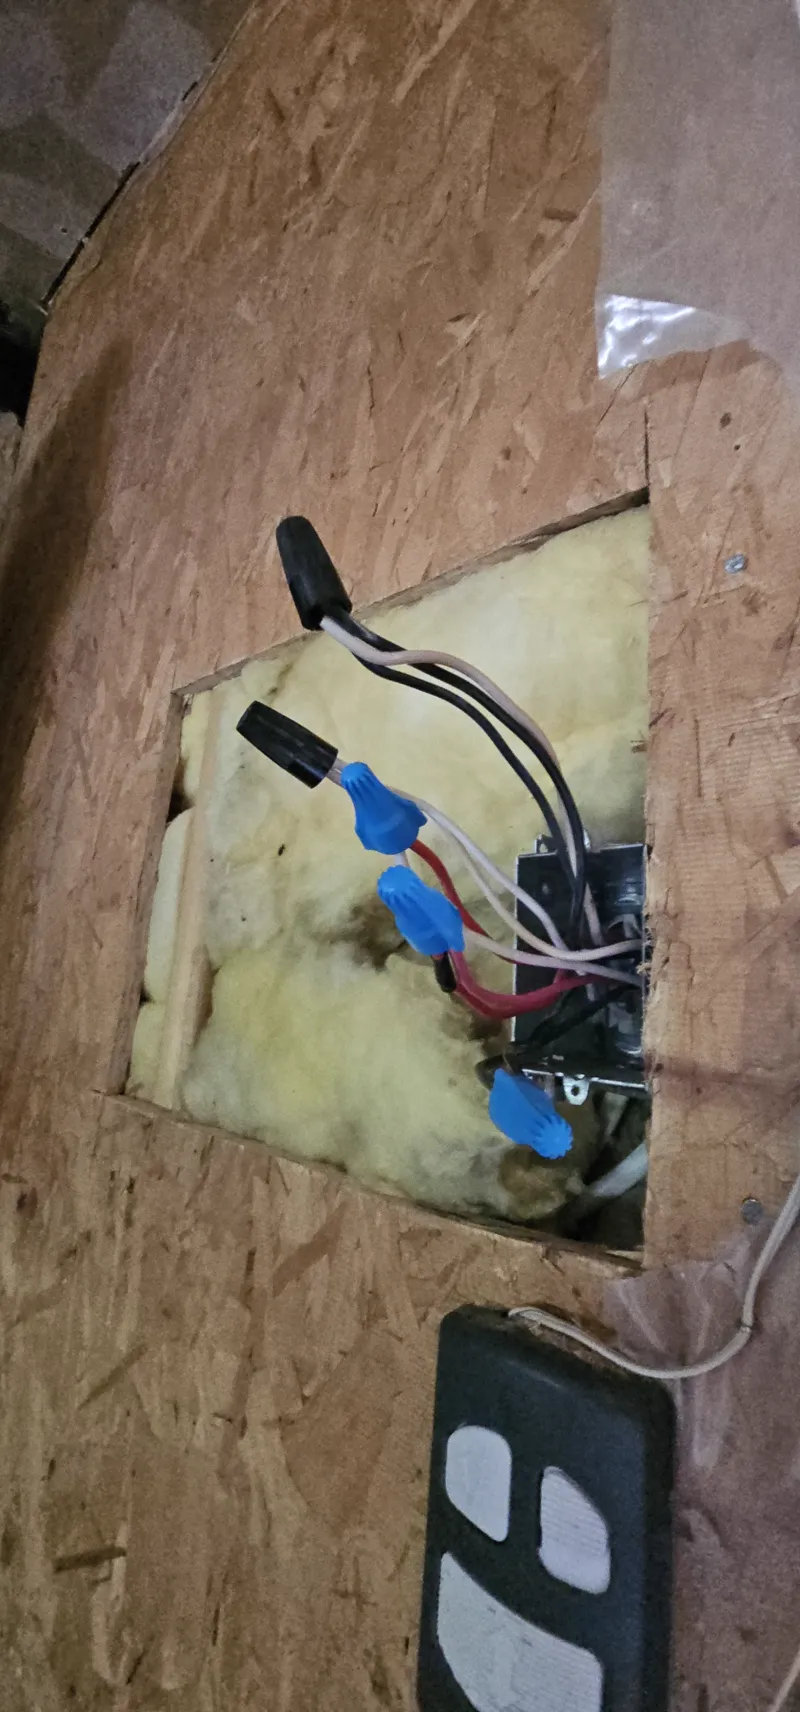
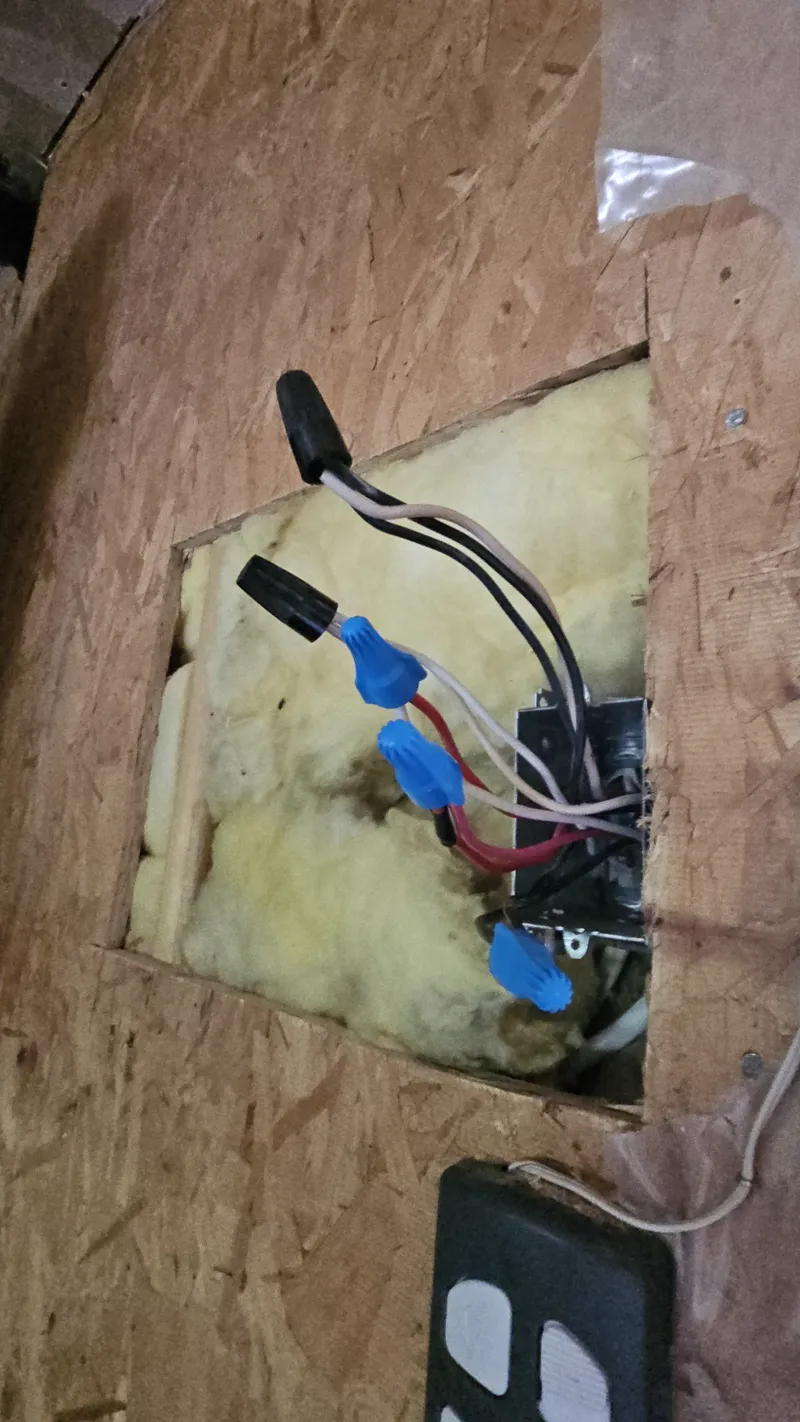
Electrical back to the same frame as everything else.
The taller frame was the wrong trade. It kept every pixel of a photograph shot
nearer nine by nineteen, but it stood 753px on the page against 626 everywhere
else, and a frame that long reads as a strip rather than a photograph.

Cut to the common frame, what the crop takes is floor below the panel and
ceiling above it. The panel itself, which is the whole subject of every one of
these, sits inside the cut in all twelve.

diff --git a/src/content/serviceMedia.js b/src/content/serviceMedia.js
@@ -20,9 +20,6 @@ const BASE = '/images/services';
 /** The frame a set is shown in. Phone photographs are tall, and a frame cut for
     landscape would throw away most of every one of them. */
 const TALL = '9 / 16';
-/** Taller again. Some phones shoot nearer 9:19, and cutting those to 9:16 would
-    take a sixth of the picture off the top and bottom. */
-const TALLER = '800 / 1712';
 /** Two vertical clips side by side come to nine by eight exactly, so the pair
     fills its frame with no bars and nothing to fill in behind them. */
 const REEL = '9 / 8';
@@ -58,7 +55,10 @@ export const SERVICE_MEDIA = {
   curb: { gallery: stills('curb', 9), beforeAfter: pair('curb'), reel: film('curb') },
   flooring: { gallery: stills('flooring', 11), beforeAfter: pair('flooring'), reel: film('flooring') },
   // No film on this one: there are no clips yet, so the frame stays labelled.
-  electrical: { gallery: stills('electrical', 10, TALLER), beforeAfter: pair('electrical', TALLER) },
+  // The stills came nearer nine by nineteen and are cut to the same frame as
+  // everything else rather than given a taller one: what the crop takes is
+  // floor and ceiling, and a longer frame reads as a strip on the page.
+  electrical: { gallery: stills('electrical', 10), beforeAfter: pair('electrical') },
   // Two stills each, and nothing else yet.
   handyman: { gallery: stills('handyman', 2) },
   // The second clip has not arrived, so the film waits rather than going out
